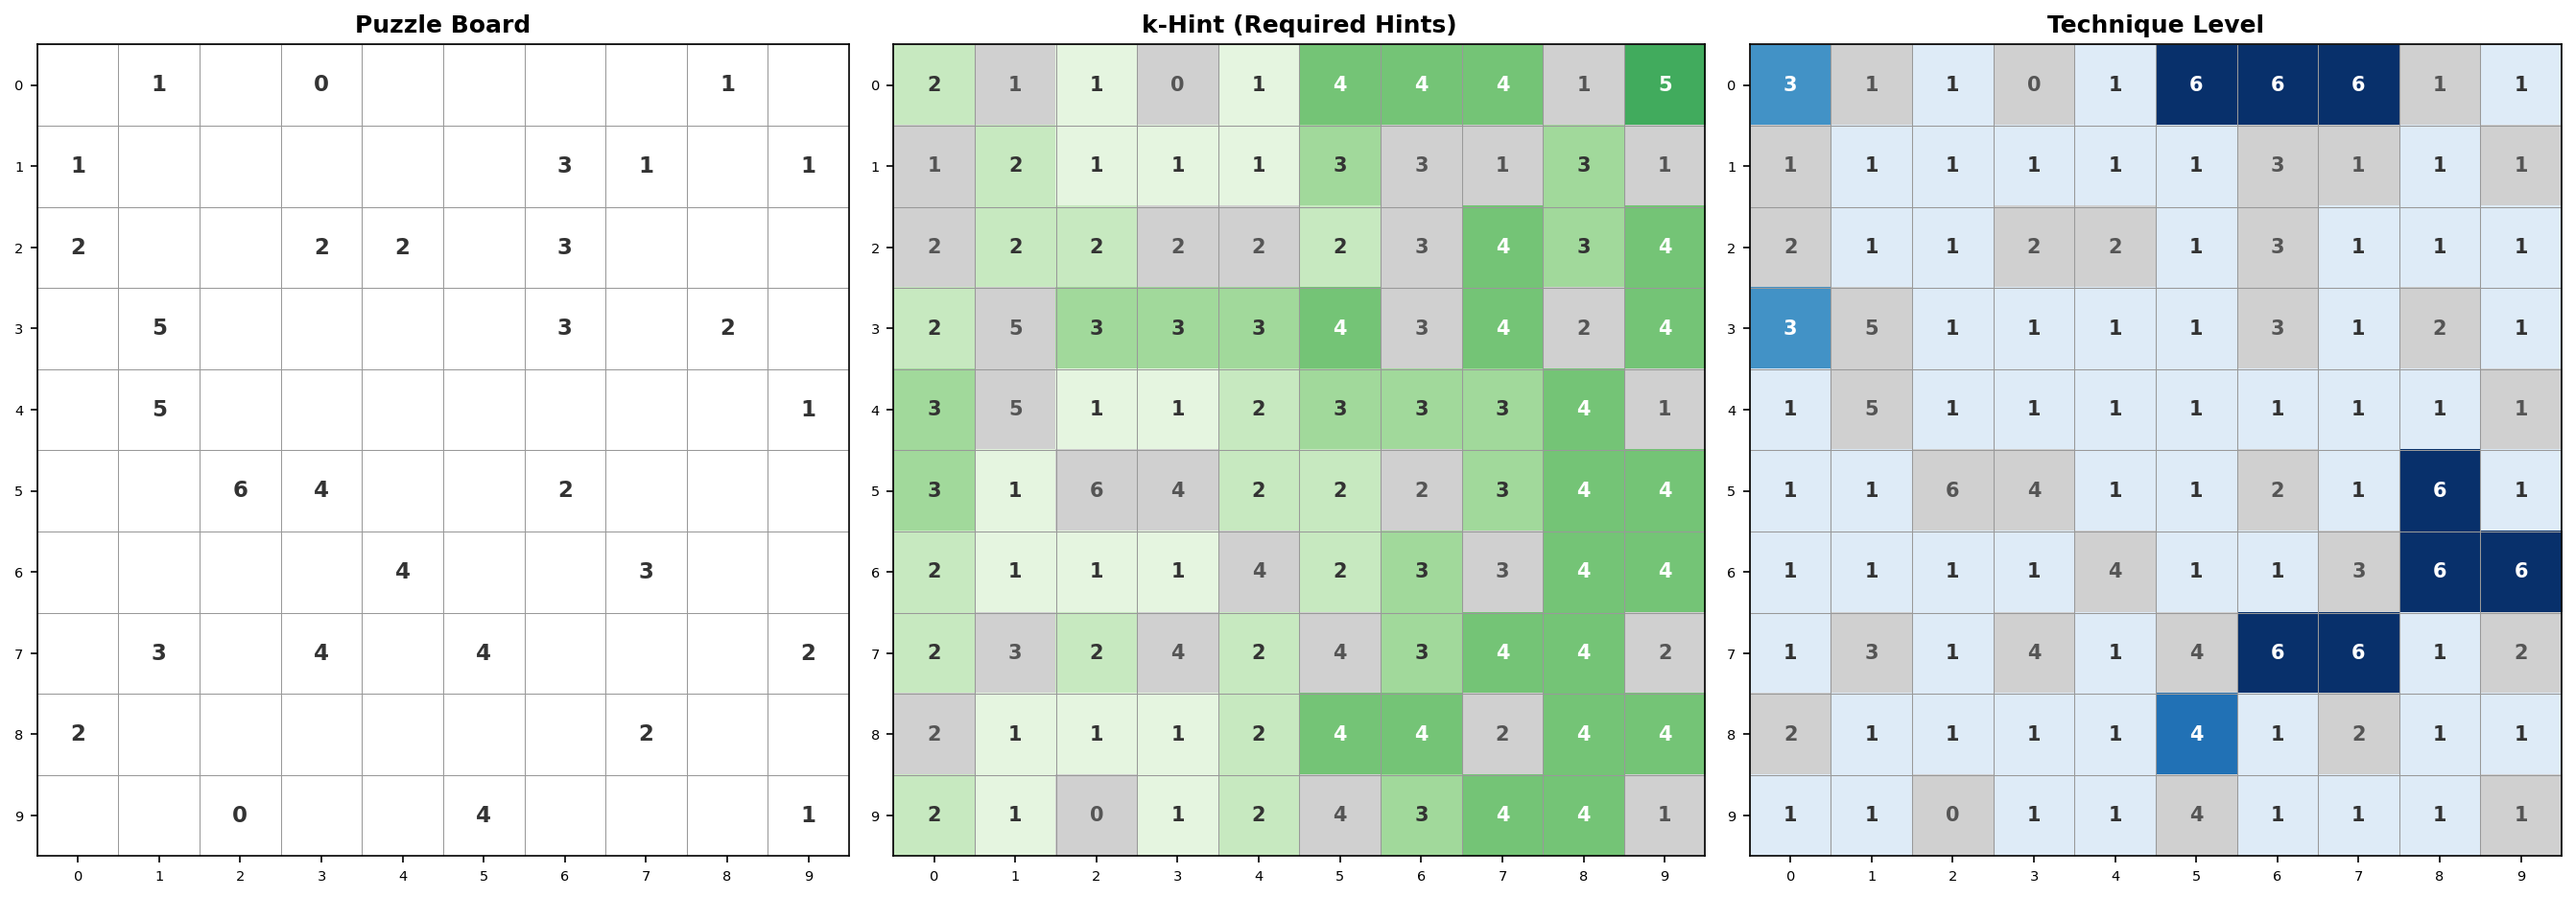
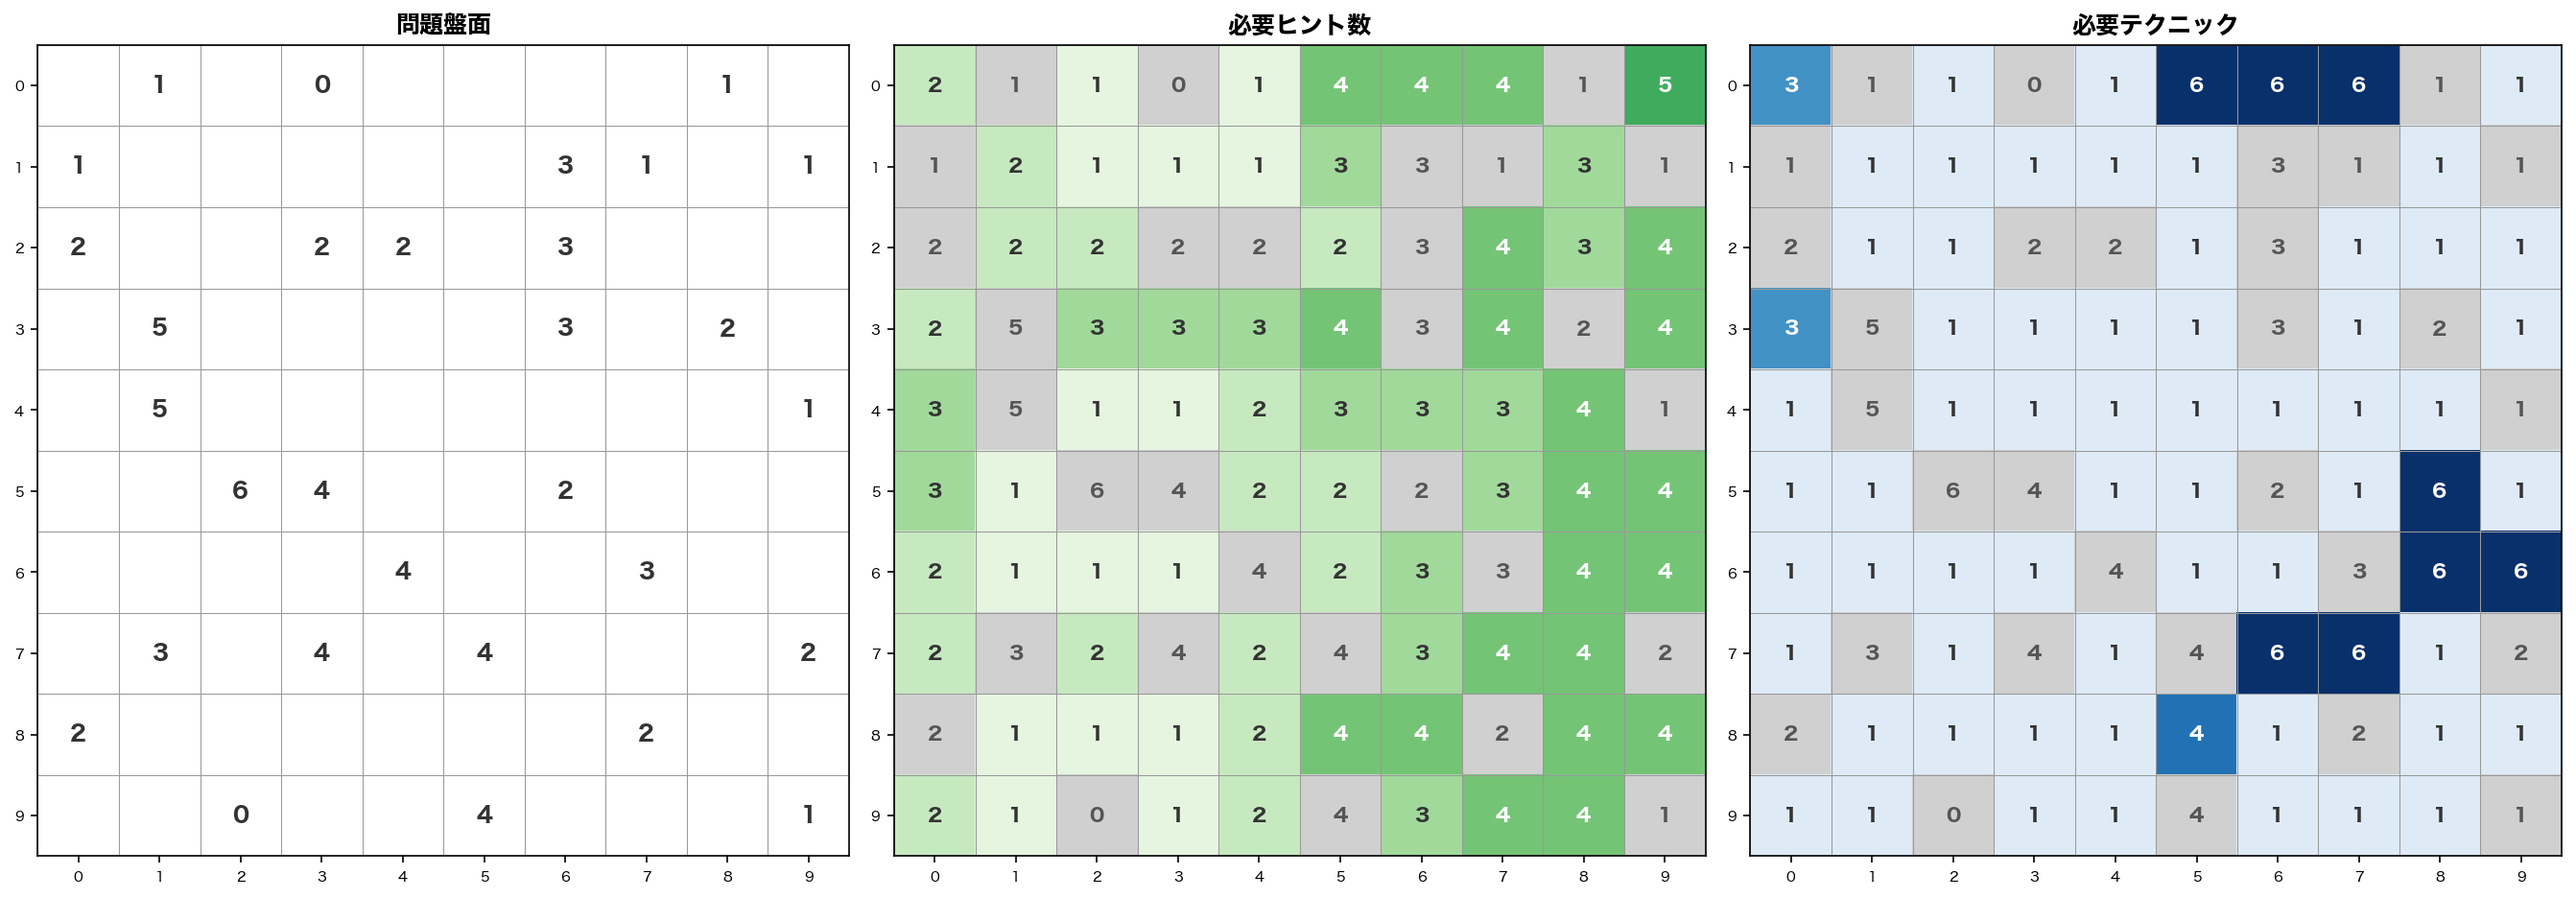
日本語出力に修正

diff --git a/heatmap_generator.py b/heatmap_generator.py
@@ -15,7 +15,22 @@ import matplotlib.font_manager as fm
 
 def setup_japanese_font():
     """日本語フォントを設定（利用可能な場合）"""
-    japanese_fonts = ['IPAGothic', 'IPAPGothic', 'Noto Sans CJK JP', 'TakaoPGothic', 'VL Gothic']
+    # macOS, Linux, Windows の順で日本語フォントを試行
+    japanese_fonts = [
+        # macOS
+        'Hiragino Sans',
+        'Hiragino Kaku Gothic Pro',
+        'Hiragino Maru Gothic Pro',
+        # Linux
+        'IPAGothic',
+        'IPAPGothic', 
+        'Noto Sans CJK JP',
+        'TakaoPGothic',
+        # Windows
+        'MS Gothic',
+        'Meiryo',
+        'Yu Gothic',
+    ]
     for font_name in japanese_fonts:
         try:
             fm.findfont(font_name, fallback_to_default=False)
@@ -68,7 +83,7 @@ def create_heatmap_figure(boards, size, output_file=None):
     """3つのヒートマップを横並びで生成"""
     
     fig, axes = plt.subplots(1, 3, figsize=(18, 6))
-    # fig.suptitle('Minesweeper Difficulty Analysis', fontsize=16, fontweight='bold', y=0.98)
+    # fig.suptitle('マインスイーパ難易度解析', fontsize=16, fontweight='bold', y=0.98)
     
     puzzle = boards.get('PuzzleBoard', np.zeros((size, size)))
     technique = boards.get('TechniqueLevel', np.zeros((size, size)))
@@ -76,15 +91,15 @@ def create_heatmap_figure(boards, size, output_file=None):
     
     # --- 1. 問題盤面 (左) ---
     plot_puzzle_board(axes[0], puzzle, size)
-    axes[0].set_title('Puzzle Board', fontsize=12, fontweight='bold')
+    axes[0].set_title('初期盤面', fontsize=12, fontweight='bold')
     
     # --- 2. k-Hint Difficulty (中央) ---
     plot_khint_heatmap(axes[1], khint, puzzle, size)
-    axes[1].set_title('k-Hint (Required Hints)', fontsize=12, fontweight='bold')
+    axes[1].set_title('必要ヒント数', fontsize=12, fontweight='bold')
     
     # --- 3. Technique Level (右) ---
     plot_technique_heatmap(axes[2], technique, puzzle, size)
-    axes[2].set_title('Technique Level', fontsize=12, fontweight='bold')
+    axes[2].set_title('必要テクニック', fontsize=12, fontweight='bold')
     
     plt.tight_layout()
     
